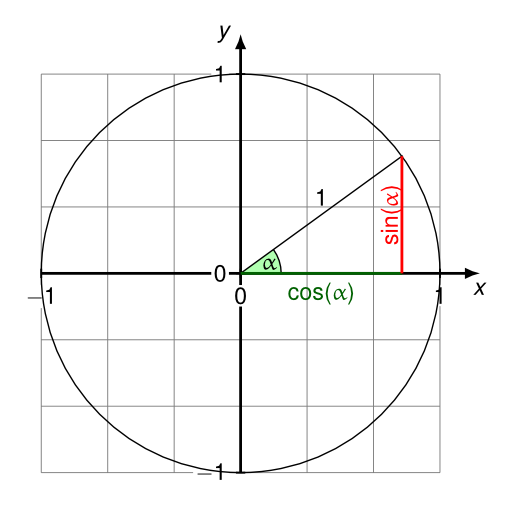
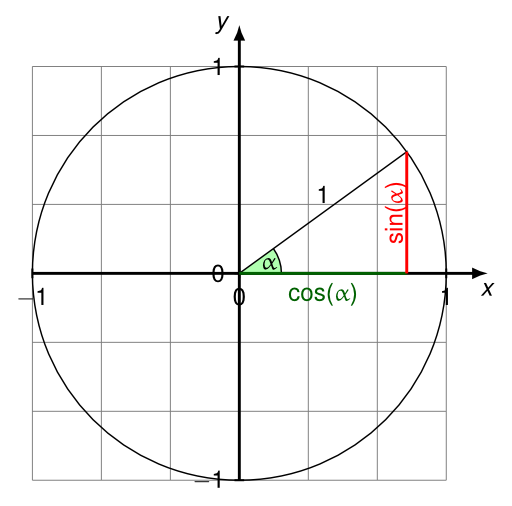
Remove background from tikz/triangle-unit-circle labels

Changed region(s): [[0.0312, 0.0296, 0.9688, 0.9783]]

diff --git a/tikz/triangle-unit-circle/triangle-unit-circle.tex b/tikz/triangle-unit-circle/triangle-unit-circle.tex
@@ -2,7 +2,6 @@
 \usepackage[pdftex,active,tightpage]{preview}
 \setlength\PreviewBorder{2mm}
 \usepackage{tikz}
-\usetikzlibrary{backgrounds}
 \usepackage{tkz-euclide}
 \usetikzlibrary{angles,quotes}
 
@@ -14,11 +13,10 @@
 
 \begin{document}
 \begin{preview}
-\begin{tikzpicture}[very thick,font=\sansmath\sffamily,x=3cm,y=3cm,  show background rectangle,
-  background rectangle/.style={fill=white},]
+\begin{tikzpicture}[very thick,font=\sansmath\sffamily,x=3cm,y=3cm]
     \tkzInit[xmax=1.0,ymax=1.0,xmin=-1.0,ymin=-1.0]
     \tkzGrid
-    \tkzAxeXY[up space=0.2,right space=0.2,fill=none]
+    \tkzAxeXY[up space=0.2,right space=0.2, label options={fill=none}]
 
     \tkzDefPoint(0,0){A}
     \tkzDefPoint({cos(FPpi/5)*1},0){B}
